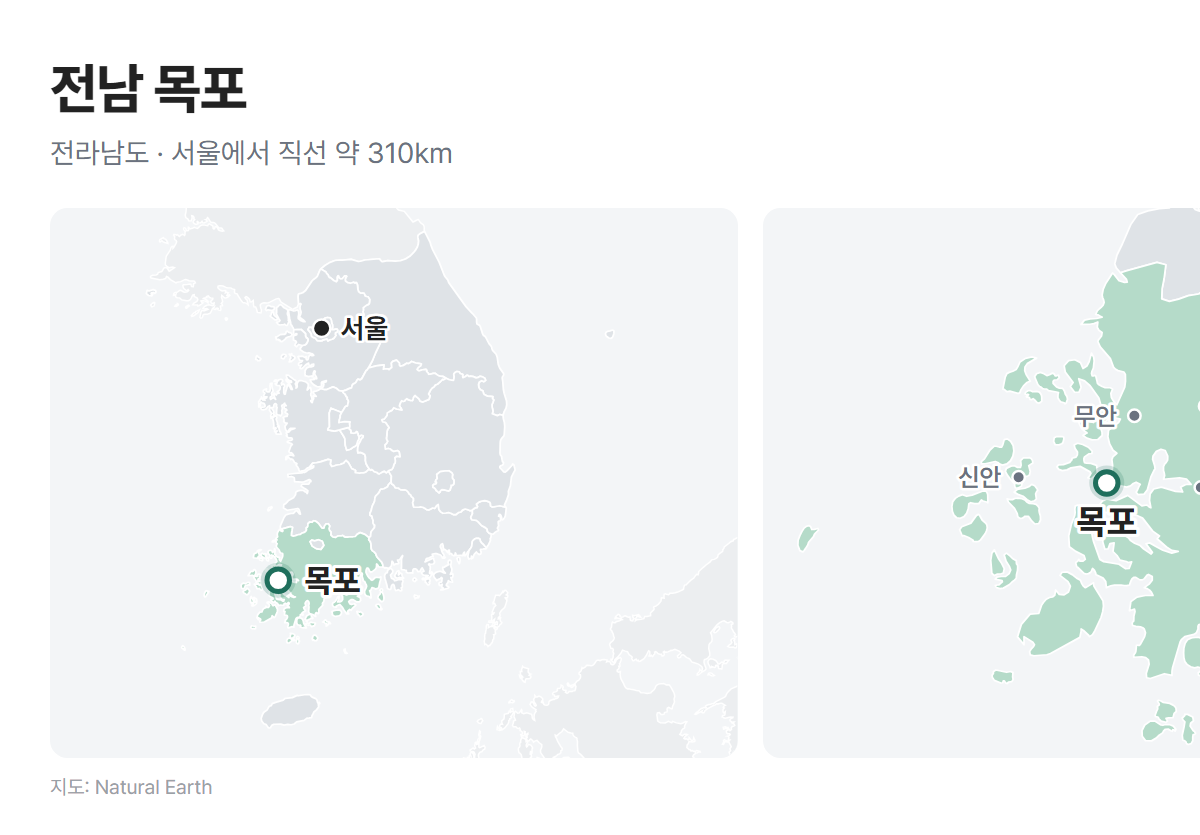
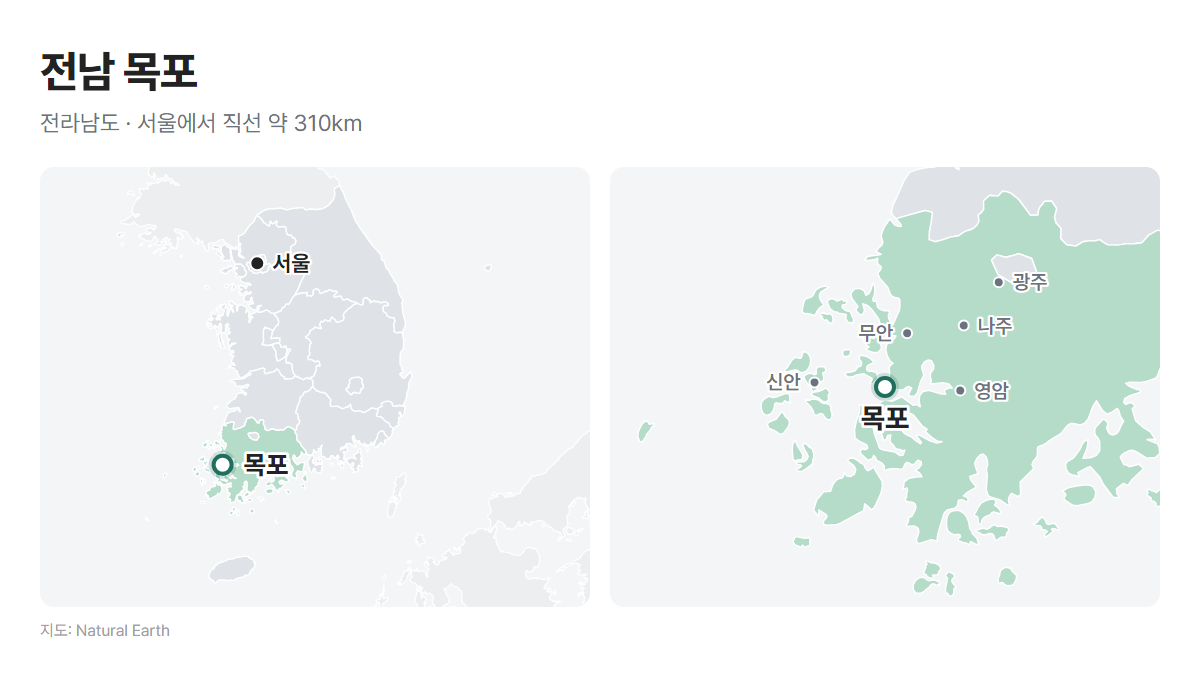
변환그림: 위치지도 캡처 배율 고정, 99·100·101 지도 재생성, 102 사진·도해

diff --git a/콘텐츠/블로그_카페/변환그림/위치지도.py b/콘텐츠/블로그_카페/변환그림/위치지도.py
@@ -506,7 +506,7 @@ def shoot(body, out):
     page.write_text(f'<!doctype html><meta charset="utf-8"><link rel="stylesheet" href="{FONT}">'
                     f'<style>body{{margin:0;background:#fff}}</style><body>{body}</body>', encoding="utf-8")
     shot = tmp / "shot.png"
-    subprocess.run([CHROME, "--headless=new", "--disable-gpu", "--hide-scrollbars", f"--user-data-dir={tmp / 'prof'}", "--window-size=1260,1400", "--virtual-time-budget=6000",
+    subprocess.run([CHROME, "--headless=new", "--disable-gpu", "--hide-scrollbars", "--force-device-scale-factor=1", f"--user-data-dir={tmp / 'prof'}", "--window-size=1260,1400", "--virtual-time-budget=6000",
                     f"--screenshot={shot}", page.as_uri()], check=True, capture_output=True)
     im = Image.open(shot).convert("RGB").crop((0, 0, 1200, 1400))
     gray = im.convert("L")
